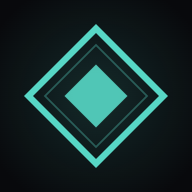
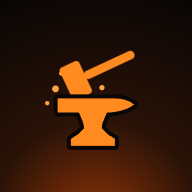
v4.74 - the anvil becomes the mark
The app icon was still the teal Arcanum diamond, which had nothing to do with Forge. It is
an anvil now, struck.

The anvil itself is redrawn. The horn runs out level from the face and takes its taper from
the underside sweeping up to meet it, which is how an anvil actually reads; the old one
dropped the top edge instead, so the horn drooped like a beak. It was also cut from straight
segments, which read as folded card rather than forged steel - curves now, and a foot that
flares wider than the waist.

Placement stops being hand-written. Three marks used the anvil at three different scales,
each with its own magic numbers baked against the old path's bounding box, so changing the
drawing would have silently resized all of them. anvilAt(width) derives the scale from the
path's own extent instead: ask for 59 units wide and you get 59. Verified by measuring the
rendered extent rather than getBBox, which ignores the element's own transform and cheerfully
reported all three as identical. The header mark comes out at exactly the size it was before,
21.2px in a 36px box - same footprint, new shape.

The icons are regenerated at 1024, 512, 192 and 180 from the full mark: hammer landing flat
on the face, handle swept up and away, four sparks off the contact point, a shade hotter than
the metal so they read as something leaving it rather than more of it. The anvil carries a
dark cut where it crosses the hammer so the two shapes stay separate. The mark sits at 62% of
[…]

diff --git a/index.html b/index.html
@@ -7,7 +7,9 @@
 <meta name="apple-mobile-web-app-status-bar-style" content="black-translucent">
 <meta name="apple-mobile-web-app-title" content="ARCANUM">
 <meta name="mobile-web-app-capable" content="yes">
-<meta name="theme-color" content="#07080e">
+<!-- First frame only. THEME_BAR overwrites this the moment a theme applies; this is what the
+     system bar wears in between, so it matches the ground the icon is drawn on. -->
+<meta name="theme-color" content="#0a0605">
 <meta name="application-name" content="Arcanum">
 <meta name="msapplication-TileColor" content="#07080e">
 <meta name="msapplication-TileImage" content="icons/arcanum-192.png">
@@ -2844,7 +2846,7 @@ function drawThemePick(){
 // the one that matters: it is what makes a device drop the build it is holding, so it only
 // ever moves forward and is never renumbered to match this. They are not the same count and
 // are not meant to be - v3.0 ships on arcanum-v131.
-var APPV='v4.73';
+var APPV='v4.74';
 var DB={logs:[],active:{},custom:{},slots:{},plan:[],cex:{},up:{},upSkip:{},extra:[],dayEdit:{},vOvr:{},walks:[],walkRun:null};
 async function loadDB(){
   var d=await Store.get(KEY),bak=null;
@@ -3628,9 +3630,21 @@ var OU_BODY='M74.31 24.82L75.33 25.52L76.26 26.31L77.15 27.15L78.01 28.03L78.83 
 var OU_HEAD='M37.35 15.23L40.76 12.93L44.63 11.78L47.30 11.39L42.96 5.55L49.32 11.21L51.36 11.12L48.12 6.84L53.37 11.45L56.63 12.38L59.02 13.81L61.85 15.58L63.91 17.23L65.71 19.17L61.51 20.78L59.46 20.90L60.39 22.93L62.01 25.37L59.39 25.54L56.65 25.18L53.55 24.75L49.11 24.52L44.66 24.86L41.11 25.57Z';
 var OU_TAIL='M74.31 24.82L71.12 24.38L68.46 24.60L68.96 27.80L69.45 29.86Z';
 var OU_EYE={x:'55.37',y:'16.12',r:'1.5'};
-// The anvil is drawn once in a 20-unit box and placed by transform wherever it is needed:
-// horn to the left, the face across the top, the waist and the flared base beneath.
-var ANVIL='M0.6 9.4L6.5 5.9H19v2.3l-5.2 1.2-.9 4.8 4.2 2v2H3.4v-2l4.2-2-.9-4.8L3.2 10z';
+// The anvil, drawn once in a 100-unit box and placed by transform wherever it is needed.
+// Redrawn: the horn now runs out level from the face and takes its taper from the underside
+// sweeping up to meet it, which is how an anvil actually reads. The old one dropped the top
+// edge instead, so the horn drooped like a beak - and it was cut from straight segments,
+// which read as folded card rather than forged steel. Curves now, and a foot that flares
+// wider than the waist.
+// Content spans x 10-97 and y 26-80, so its centre is 53.5,53 - that is what anvilAt puts
+// on the middle of the box. Nothing should hand-write that transform again.
+var ANVIL='M10 26L74 26C83 26 91 28 97 33C90 38 82 41 70 42L66 42C62 51 60 55 60 60C64 65 69 69 75 72L75 80L25 80L25 72C31 69 36 65 40 60C40 55 38 51 34 42L30 42L10 42Z';
+// w is how wide the anvil should sit inside a 100-unit box; the scale follows from its own
+// width, so changing the path does not silently resize every mark that uses it.
+function anvilAt(w,attr){
+  return '<g transform="translate(50 50) scale('+(w/87).toFixed(4)+') translate(-53.5 -53)">'+
+         '<path '+attr+' d="'+ANVIL+'"/></g>';
+}
 // Tundra's mark. Three crossed spokes alone read as a sparkle - the shape a polish advert puts
 // on a clean surface - so each of the six arms carries a pair of barbs swept back toward the
 // centre, which is what makes a snowflake read as ice rather than shine. Barbs sit at nine
@@ -3645,7 +3659,7 @@ var FLAKE='M50 36v28M38 43l24 14M62 43L38 57'+
 var CHK_GLYPH={
   dark: '<g transform="translate(50 50) scale(3.2) translate(-50 -44.5)"><path d="M50 34.5l10 10-10 10-10-10z" fill="none" stroke="currentColor" stroke-width="2.4"/><path class="f" d="M50 40.5l4 4-4 4-4-4z"/></g>',
   light:'<g transform="translate(50 50) scale(2.7) translate(-50 -50)" stroke="currentColor" stroke-width="2.6" stroke-linecap="round" fill="none"><path d="'+FLAKE+'"/></g>',
-  forge:'<g transform="translate(50 50) scale(3.48) translate(-9.8 -12.05)"><path class="f" d="'+ANVIL+'"/></g>',
+  forge:anvilAt(64,'class="f"'),
   moon: '<g transform="translate(50 50) scale(2.6) translate(-50 -50)"><path class="f" d="M50 36.5l2.9 10.6L63.5 50l-10.6 2.9L50 63.5l-2.9-10.6L36.5 50l10.6-2.9z"/></g>'
 };
 function chkSvg(){return '<svg class="glyph" viewBox="0 0 100 100">'+(CHK_GLYPH[curTheme()]||CHK_GLYPH.dark)+'</svg>';}
@@ -3656,7 +3670,7 @@ function refreshChks(){
 var MARK_GLYPH={
   dark: '<path d="M50 34.5l10 10-10 10-10-10z" fill="none" stroke="var(--gold)" stroke-width="1.7"/><path d="M50 40.5l4 4-4 4-4-4z" fill="var(--gold)"/>',
   light:'<g stroke="var(--gold)" stroke-width="1.9" stroke-linecap="round"><path d="'+FLAKE+'"/></g>',
-  forge:'<g transform="translate(50 50) scale(1.3) translate(-9.8 -12.05)"><path d="'+ANVIL+'" fill="var(--gold)"/></g>',
+  forge:anvilAt(24,'fill="var(--gold)"'),
   moon: '<path d="M50 36.5l2.9 10.6L63.5 50l-10.6 2.9L50 63.5l-2.9-10.6L36.5 50l10.6-2.9z" fill="var(--gold)"/>'
 };
 // cut is the colour showing through the mouth and eye - the ground the mark sits on
@@ -3672,7 +3686,7 @@ function ouroboros(fill,cut,glyph){
 var HEAD_GLYPH={
   dark: '<g transform="translate(50 50) scale(3.4) translate(-50 -44.5)"><path d="M50 34.5l10 10-10 10-10-10z" fill="none" stroke="var(--go)" stroke-width="1.3"/><path d="M50 40.5l4 4-4 4-4-4z" fill="var(--go)"/></g>',
   light:'<g transform="translate(50 50) scale(2.7) translate(-50 -50)" stroke="var(--go)" stroke-width="2" stroke-linecap="round" fill="none"><path d="'+FLAKE+'"/></g>',
-  forge:'<g transform="translate(50 50) scale(3.2) translate(-9.8 -12.05)"><path d="'+ANVIL+'" fill="var(--gold)"/></g>',
+  forge:anvilAt(59,'fill="var(--gold)"'),
   moon: '<g transform="translate(50 50) scale(2.6) translate(-50 -50)"><path d="M50 36.5l2.9 10.6L63.5 50l-10.6 2.9L50 63.5l-2.9-10.6L36.5 50l10.6-2.9z" fill="var(--go)"/></g>'
 };
 function renderMark(){

diff --git a/sw.js b/sw.js
@@ -1,5 +1,5 @@
 // Arcanum offline shell
-var CACHE = 'arcanum-v214';
+var CACHE = 'arcanum-v215';
 var SHELL = [
   './',
   './index.html',
